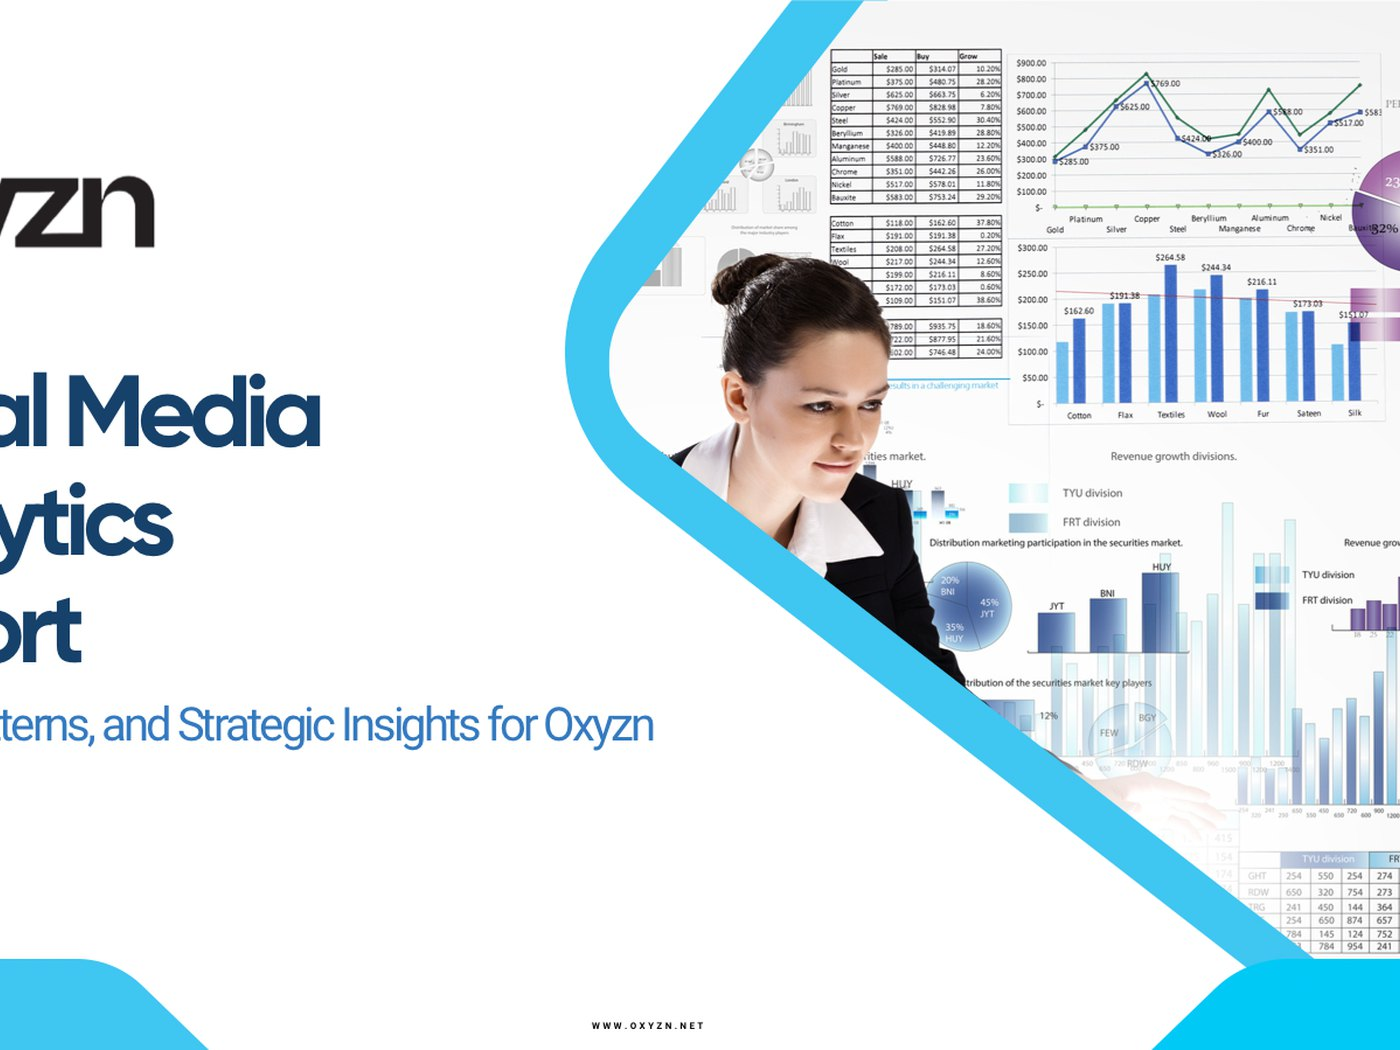
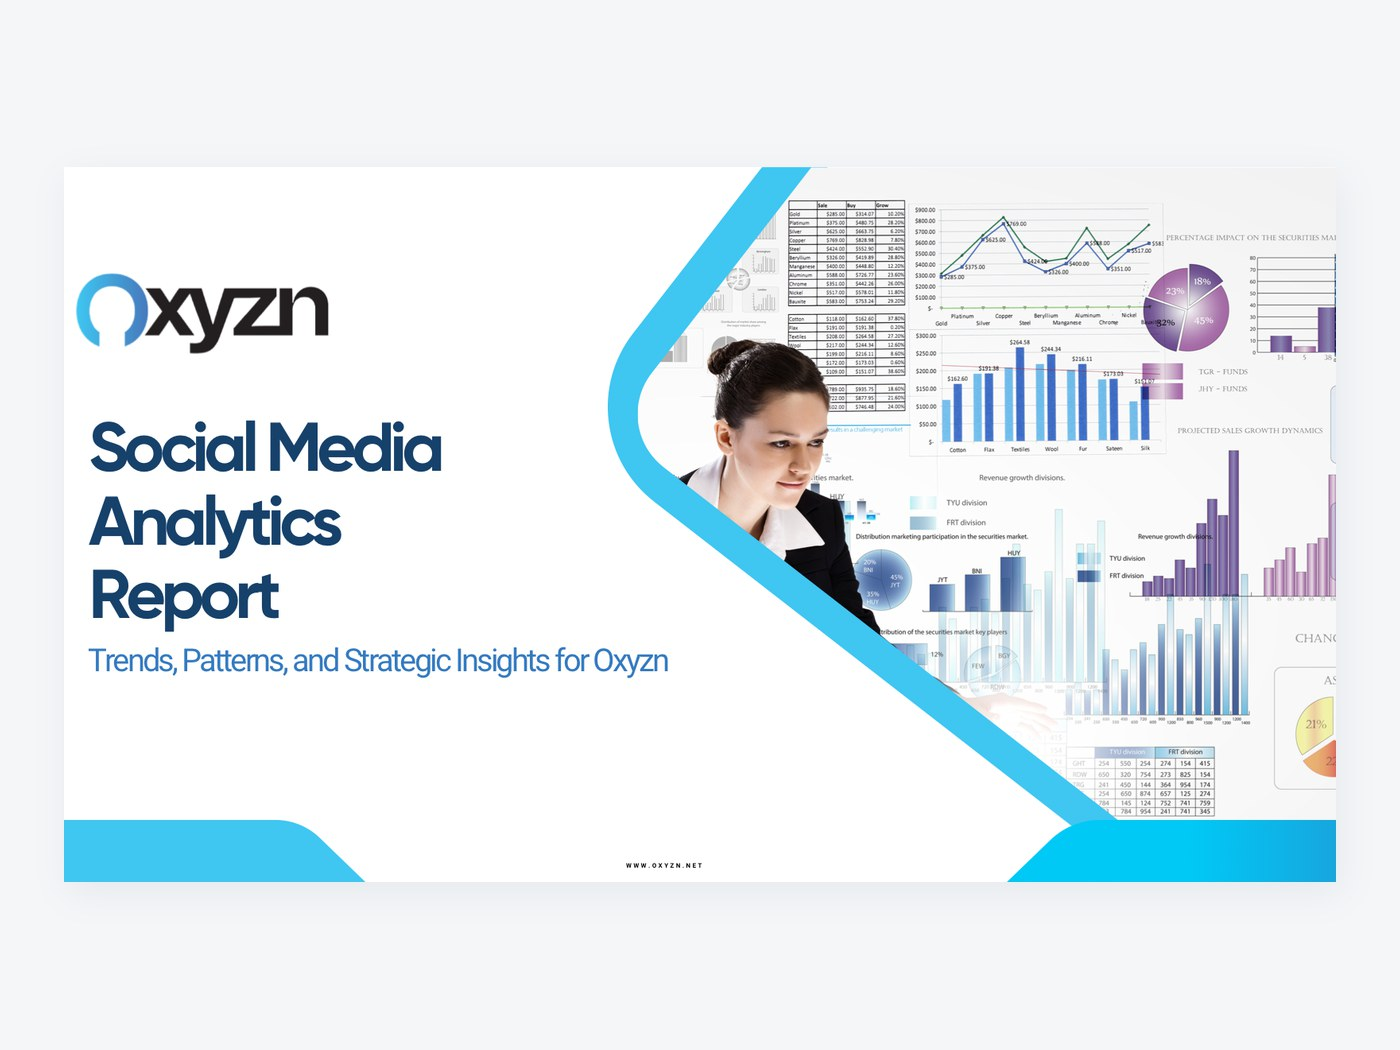
Fit the Oxyzn document covers instead of cropping them
Both Oxyzn covers were being cropped to the 4:3 card tile: the 16:9
analytics slide lost its logo and the left half of its title, and the
portrait white paper cover lost the bottom of its subtitle.

Both card images are now composed at 1400x1050 with the full page
scaled to fit on a light ground with a soft shadow, so nothing is cut
and they read as documents rather than broken crops.

The heroes point at the raw pages instead, since a full-bleed
background behind a dark overlay crops harmlessly.

diff --git a/oxyzn-social-analytics.html b/oxyzn-social-analytics.html
@@ -35,7 +35,7 @@
 </nav>
 
 <section class="ed-hero" aria-label="Project hero">
-  <img src="assets/images/cover-oxyzn-analytics.jpg" alt="" class="ed-hero__bg" style="opacity:0.5;">
+  <img src="assets/images/oxyzn/social-analytics-report.jpg" alt="" class="ed-hero__bg" style="opacity:0.5;">
   <div class="ed-hero__overlay" style="background:rgba(0,0,0,0.5);"></div>
   <div class="ed-hero__lockup">
     <h1 class="ed-hero__title ed-reveal">Social Media<br>&amp; Web Analytics</h1>

diff --git a/oxyzn-white-paper.html b/oxyzn-white-paper.html
@@ -35,7 +35,7 @@
 </nav>
 
 <section class="ed-hero" aria-label="Project hero">
-  <img src="assets/images/cover-oxyzn.jpg" alt="" class="ed-hero__bg" style="opacity:0.5;">
+  <img src="assets/images/oxyzn/white-paper-cover.jpg" alt="" class="ed-hero__bg" style="opacity:0.5;">
   <div class="ed-hero__overlay" style="background:rgba(0,0,0,0.5);"></div>
   <div class="ed-hero__lockup">
     <h1 class="ed-hero__title ed-reveal">Editorial &amp;<br>Data Storytelling</h1>
